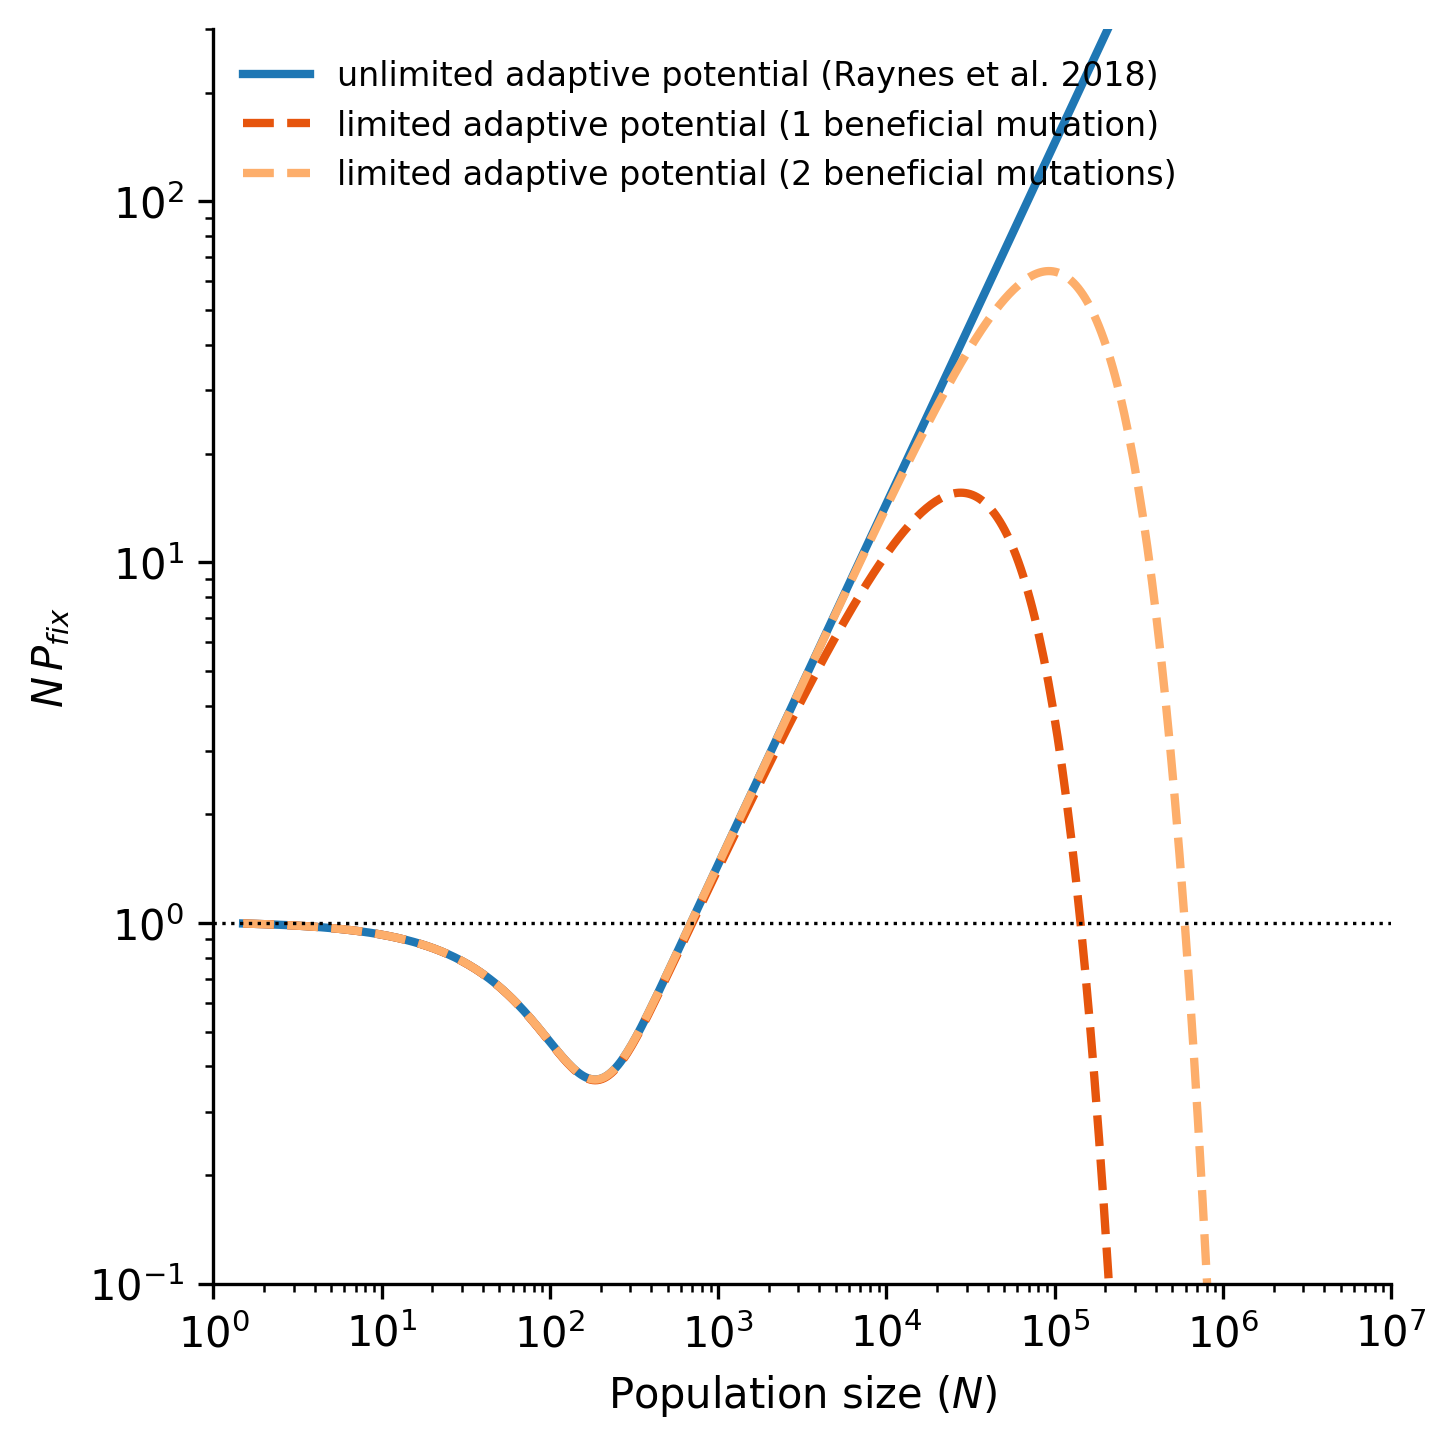
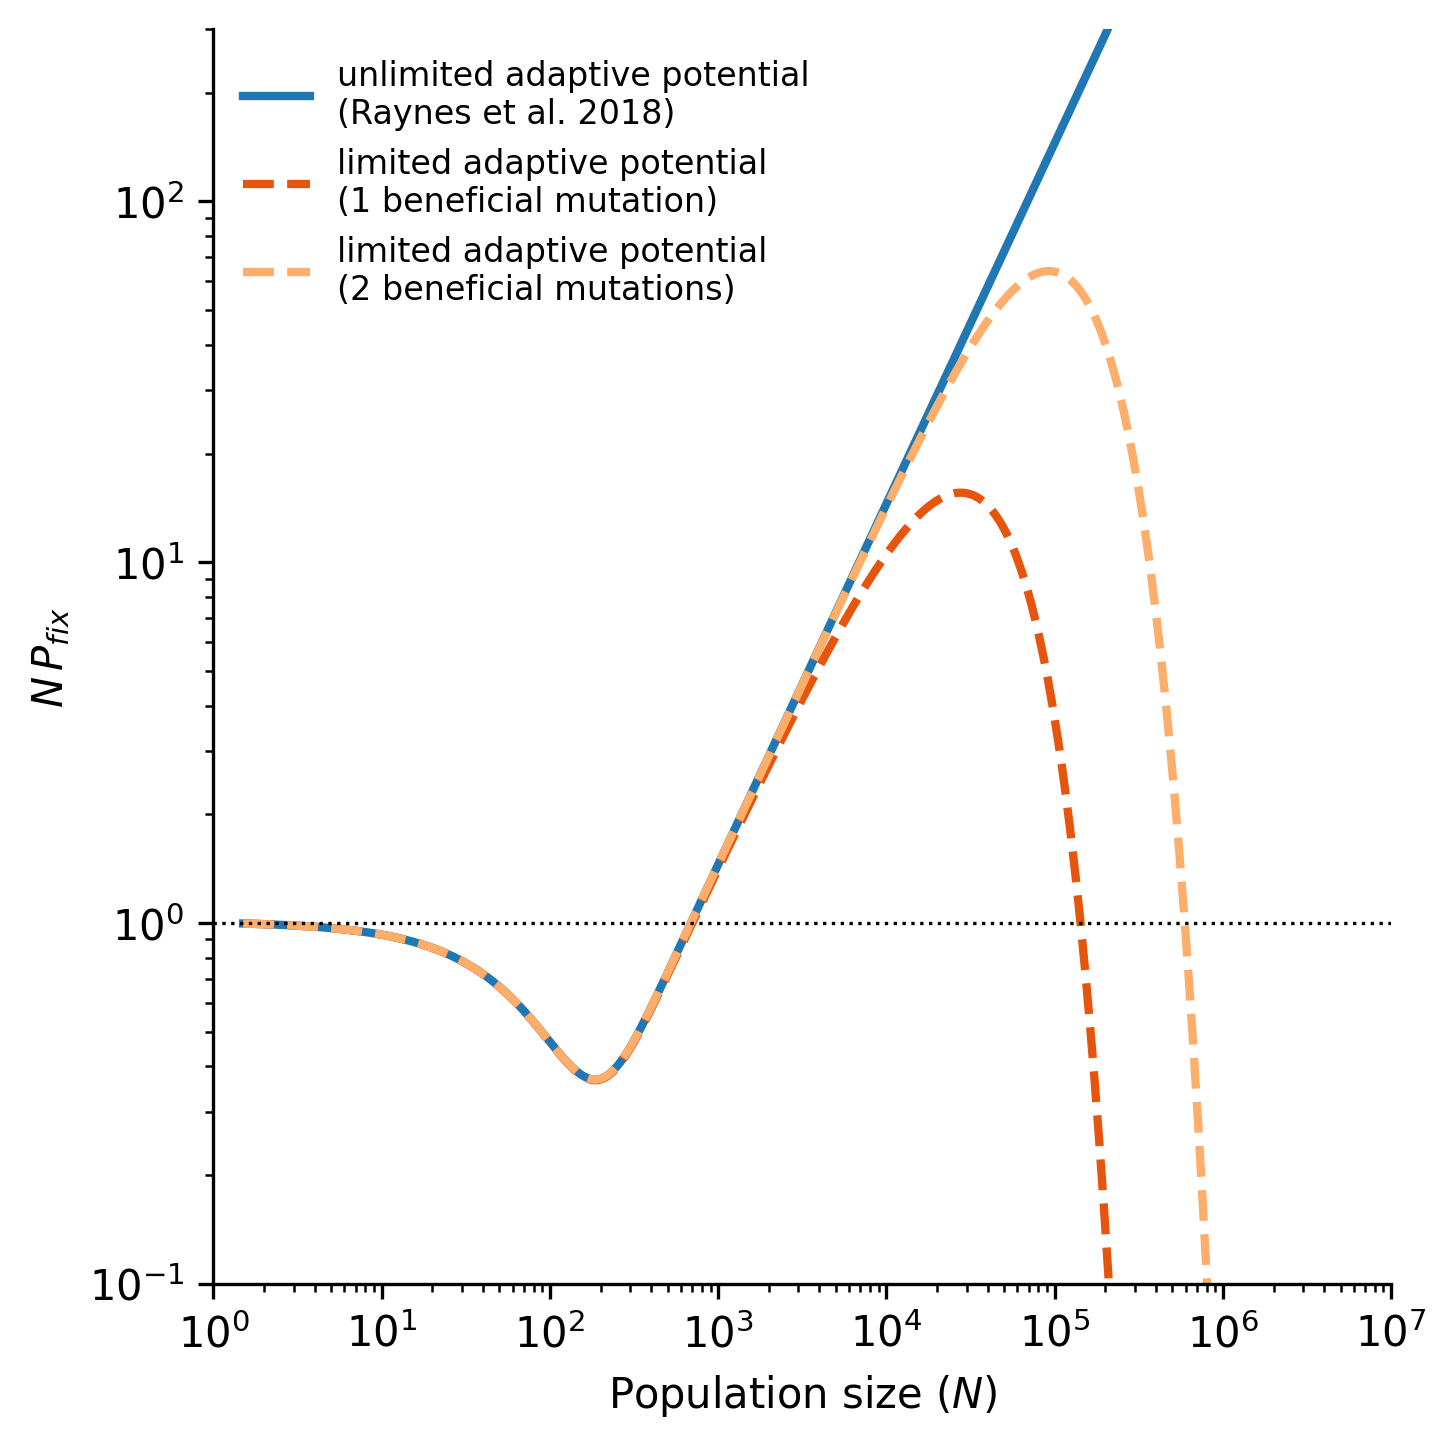
Deploying to bindle-theory-invader-npfix.py from @ mmore500/hypermutator-dynamics@802e4490014a20ac9ff7778103038da8421ad160 🚀

Changed region(s): [[0.1545, 0.0311, 0.8036, 0.2175]]

diff --git a/bindle/theory-invader-npfix.py b/bindle/theory-invader-npfix.py
@@ -98,19 +98,19 @@ def _(model_N, model_npfix, teeplot_subdir):
                 np.inf,
                 "tab:blue",
                 "-",
-                "unlimited adaptive potential (Raynes et al. 2018)",
+                "unlimited adaptive potential\n(Raynes et al. 2018)",
             ),
             (
                 1,
                 "#e6550d",
                 "--",
-                "limited adaptive potential (1 beneficial mutation)",
+                "limited adaptive potential\n(1 beneficial mutation)",
             ),
             (
                 2,
                 "#fdae6b",
                 "--",
-                "limited adaptive potential (2 beneficial mutations)",
+                "limited adaptive potential\n(2 beneficial mutations)",
             ),
         ):
             ax.plot(
